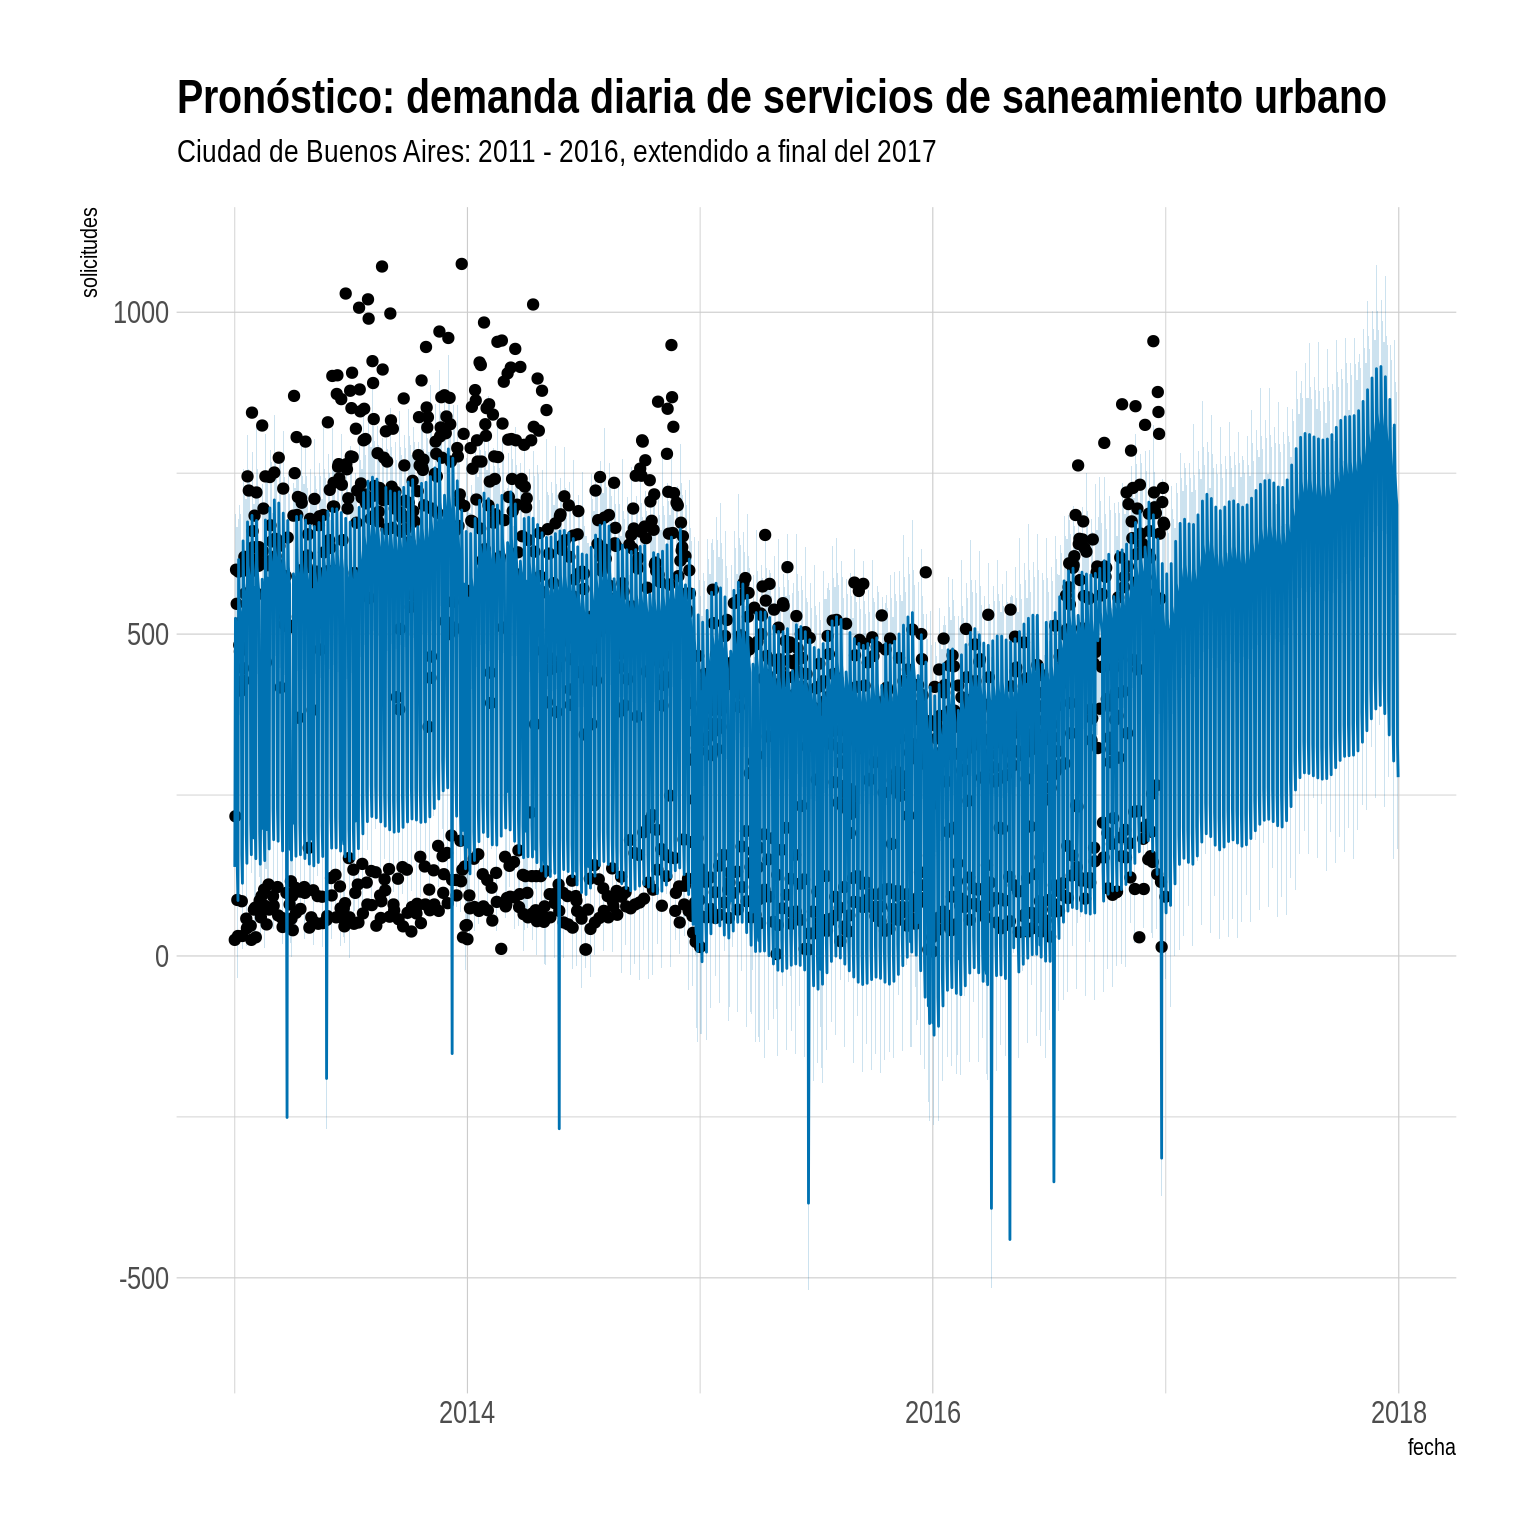
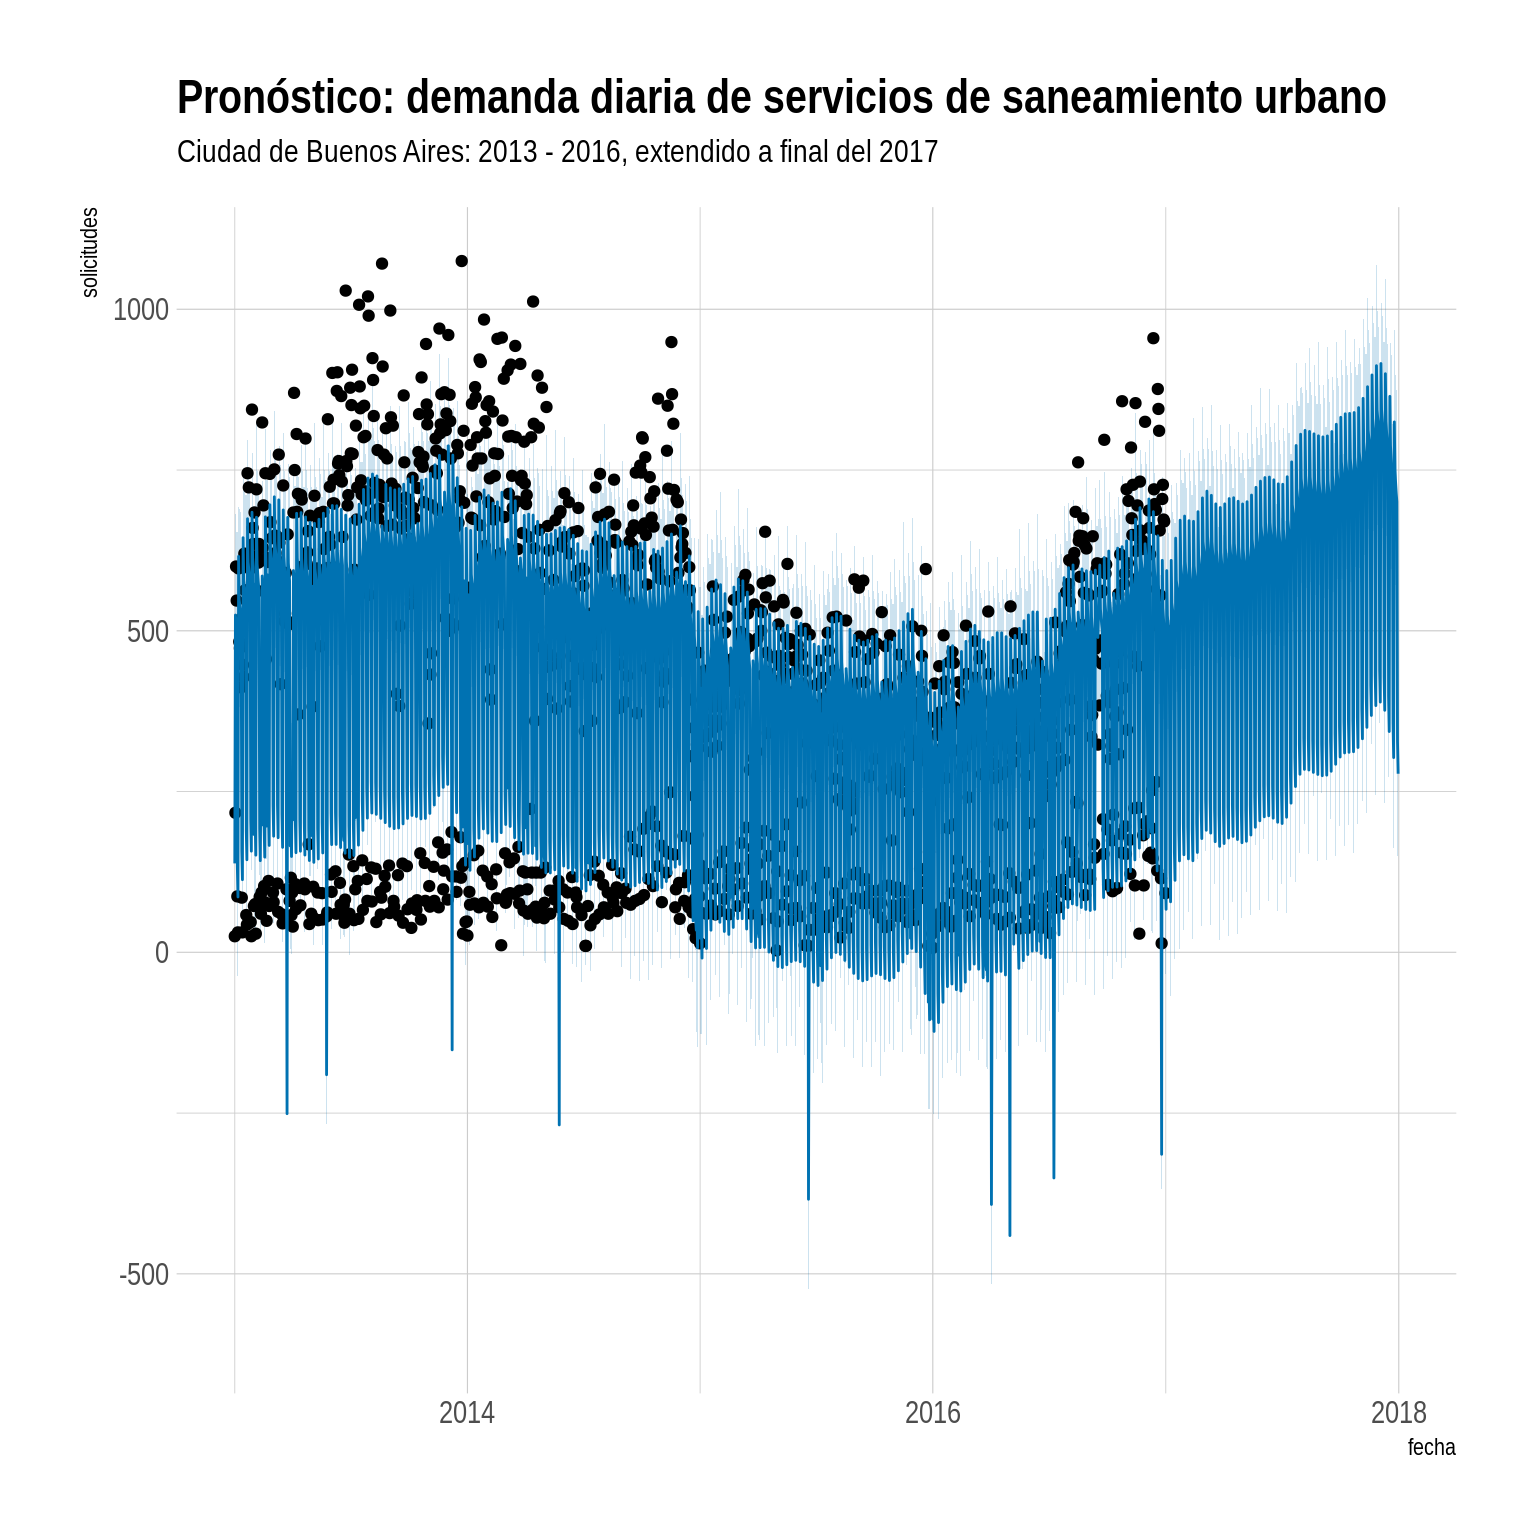
Blog update

diff --git a/post/prediccion-de-demanda-de-servicios-urbanos-con-prophet/index.html b/post/prediccion-de-demanda-de-servicios-urbanos-con-prophet/index.html
@@ -448,7 +448,7 @@ scrape_feriados_del_anio &lt;- function(year) {
   
 
 # Descargamos los feriados de 2011 a 2016,  
-feriados_2011_2016 &lt;- map(2013:2016, scrape_feriados_del_anio) %&gt;% 
+feriados_2013_2016 &lt;- map(2013:2016, scrape_feriados_del_anio) %&gt;% 
   #los unimos en un unico vector
   unlist %&gt;% 
   # los definimos como fecha
@@ -457,7 +457,7 @@ feriados_2011_2016 &lt;- map(2013:2016, scrape_feriados_del_anio) %&gt;%
   # en orden alfabetico)
   sort</code></pre>
 <p>Tenemos nuestra lista de feriados?</p>
-<pre class="r"><code>feriados_2011_2016</code></pre>
+<pre class="r"><code>feriados_2013_2016</code></pre>
 <pre><code>##  [1] &quot;2013-01-01&quot; &quot;2013-01-31&quot; &quot;2013-02-11&quot; &quot;2013-02-12&quot; &quot;2013-02-20&quot;
 ##  [6] &quot;2013-03-24&quot; &quot;2013-03-29&quot; &quot;2013-04-01&quot; &quot;2013-04-02&quot; &quot;2013-05-01&quot;
 ## [11] &quot;2013-05-25&quot; &quot;2013-06-20&quot; &quot;2013-06-21&quot; &quot;2013-07-09&quot; &quot;2013-08-19&quot;
@@ -484,14 +484,14 @@ feriados_2011_2016 &lt;- map(2013:2016, scrape_feriados_del_anio) %&gt;%
 modelo &lt;- solicitudes_saneamiento %&gt;% 
   filter(year(as.Date(dia)) &gt; 2012) %&gt;% 
   transmute(ds = as.Date(dia), y = total) %&gt;%  
-  prophet(holidays = data.frame(holiday = &quot;feriado&quot;, ds = feriados_2011_2016))</code></pre>
+  prophet(holidays = data.frame(holiday = &quot;feriado&quot;, ds = feriados_2013_2016))</code></pre>
 <pre><code>## Initial log joint probability = -116.628
 ## Optimization terminated normally: 
 ##   Convergence detected: relative gradient magnitude is below tolerance</code></pre>
 <p>Y predecimos la demanda para el año siguiente (todo el 2017):</p>
 <pre class="r"><code>forecast &lt;- predict(modelo, make_future_dataframe(modelo, periods = 365))</code></pre>
 <p>De paso, hacemos dos preguntas rápidas. Cuantas solicitudes diarias recibe la ciudad, y que efecto tiene un día feriado en el nivel de demanda?</p>
-<p>Durante el período 2012-2016, el área de saneamiento urbano de la ciudad recibió un promedio de 394 reclamos diarios, con un máximo 1075. El día en el que menos reclamos se registraron sólo hubo 3.</p>
+<p>Durante el período 2013-2016, el área de saneamiento urbano de la ciudad recibió un promedio de 394 reclamos diarios, con un máximo 1075. El día en el que menos reclamos se registraron sólo hubo 3.</p>
 <pre class="r"><code>modelo$history$y %&gt;% summary</code></pre>
 <pre><code>##    Min. 1st Qu.  Median    Mean 3rd Qu.    Max. 
 ##     3.0   121.0   392.0   394.2   603.5  1075.0</code></pre>
@@ -520,7 +520,7 @@ modelo &lt;- solicitudes_saneamiento %&gt;%
 <pre class="r"><code>plot(modelo, forecast) + theme_ipsum() +
   labs(y = &quot;solicitudes&quot;, x = &quot;fecha&quot;,
        title=&quot;Pronóstico: demanda diaria de servicios de saneamiento urbano&quot;,
-       subtitle = &quot;Ciudad de Buenos Aires: 2011 - 2016, extendido a final del 2017&quot;)</code></pre>
+       subtitle = &quot;Ciudad de Buenos Aires: 2013 - 2016, extendido a final del 2017&quot;)</code></pre>
 <p><img src="/post/2017-06-27-prediccion-de-demanda-de-servicios-urbanos-con-prophet_files/figure-html/unnamed-chunk-18-1.png" width="720" /></p>
 <p>Yo diría que, a no ser que esté operando con capacidad de sobra, Saneamiento Urbano va a necesitar más recursos!</p>
 <p>Para la próxima: hacer análisis espacial además del temporal.</p>
